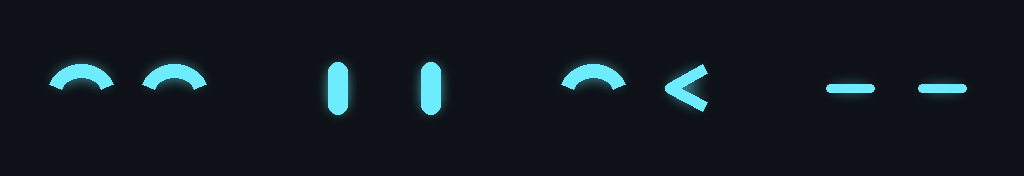
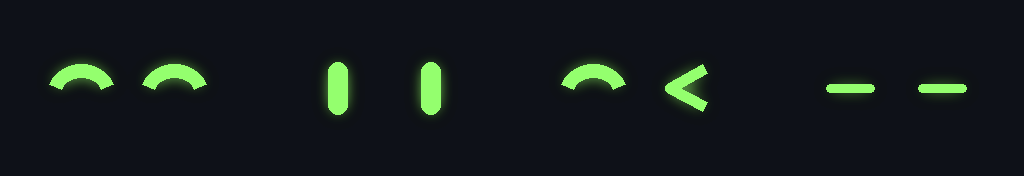
E24 #631: Bloombot's blue becomes green, the pulse included
Bloombot's own colour is now a light, warm leaf green that glows (PALETTE.botGlow, botPulse):
- its visor eyes (the face sheet regenerated from assets/tools/bloombot_faces.py) and its trim glow (the model's
  bloombot_glow material, recoloured when the rig loads)
- the pulse: the waves from its palms, the rings where it lands, the motes, and the reveal ripple
- the build hologram it projects, and its eyes and ear lights on the loading screen

The pulse green is lighter than any restored grass, so its rings still read on the lawn. Machines and drones
keep their cyan: it's Bloombot's colour, not every robot's. The HUD's charge card and load wheel were already
gold and leaf green.

Tests: tests/bot-green.test.ts. Shots, before and after: docs/review/bot-green.

diff --git a/tests/bot-green.test.ts b/tests/bot-green.test.ts
@@ -1,0 +1,48 @@
+import { readFileSync } from 'node:fs';
+import { describe, expect, it } from 'vitest';
+import { PALETTE } from '../src/rendering/Palette';
+
+/**
+ * #631: Bloombot's colour is a light, warm leaf green (it was cyan): its eyes and trim glow, the pulse's waves and
+ * rings, the reveal ripple and the build hologram. Light enough that the pulse still reads on restored grass.
+ */
+
+const rgb = (hex: string) => [1, 3, 5].map((i) => parseInt(hex.slice(i, i + 2), 16));
+const luma = (hex: string) => {
+  const [r, g, b] = rgb(hex);
+  return 0.2126 * r + 0.7152 * g + 0.0722 * b;
+};
+const read = (path: string) => readFileSync(new URL(path, import.meta.url), 'utf8');
+
+describe("#631: Bloombot's own colour is green", () => {
+  it('its glow, its pulse, the ripple and the hologram are greens, not cyans (green leads, blue trails red)', () => {
+    for (const [name, hex] of Object.entries({ botGlow: PALETTE.botGlow, botPulse: PALETTE.botPulse, ripple: PALETTE.ripple, holo: PALETTE.signal.holo })) {
+      const [r, g, b] = rgb(hex);
+      expect(g, name).toBeGreaterThan(r);
+      expect(g, name).toBeGreaterThan(b);
+      expect(b, `${name}: no blue lean`).toBeLessThanOrEqual(r);
+    }
+  });
+
+  it('the pulse is lighter than any restored grass, so its rings show on the lawn', () => {
+    const grass = (PALETTE.grass as readonly string[]).map(luma);
+    expect(luma(PALETTE.botPulse)).toBeGreaterThan(Math.max(...grass) + 40);
+  });
+
+  it('the visor sheet, the loading screen and the palette agree on the one green', () => {
+    const [r, g, b] = rgb(PALETTE.botGlow);
+    expect(read('../assets/tools/bloombot_faces.py')).toContain(`EYE = (${r}, ${g}, ${b}, 255)`);
+    expect(read('../src/ui/styles.css')).toContain(`--bot-glow: ${PALETTE.botGlow};`);
+    expect(read('../src/ui/title.css')).toMatch(/\.lb-eye \{[^}]*var\(--bot-glow\)/);
+    expect(read('../src/ui/title.css')).toMatch(/\.lb-ear \{[^}]*var\(--bot-glow\)/);
+  });
+
+  it("the pulse code draws in Bloombot's green, and its trim glow is recoloured when the model loads", () => {
+    const game = read('../src/app/Game.ts');
+    expect(game).toContain('this.vfx.ring(p, PALETTE.botPulse, 1.1, 0.55)');
+    expect(read('../src/rendering/Vfx.ts')).toContain('palmWave(from: pc.Vec3, to: pc.Vec3, hex: string = PALETTE.botPulse)');
+    const bot = read('../src/rendering/BloombotVisuals.ts');
+    expect(bot).toContain("old?.name !== 'bloombot_glow'");
+    expect(bot).toContain('color(PALETTE.botGlow)');
+  });
+});

diff --git a/src/app/Game.ts b/src/app/Game.ts
@@ -2039,7 +2039,7 @@ export class Game {
     if (r === 'pulse') {
       v.play('pulse');
       this.drones.companionReact('pulse');
-      // The echo pulse: cyan rings leave the palms and travel to the tile in front (as in the reference image).
+      // The echo pulse: green rings (#631) leave the palms and travel to the tile in front (as in the reference image).
       const f = this.frontPick();
       if (f?.tile) {
         const to = this.tileVec(f.tile, SLAB_TOP + 0.25);
@@ -4056,13 +4056,13 @@ export class Game {
       this.grid.refresh(tile, true);
       const p = this.tileVec(tile);
       if (source === 'pulse') {
-        this.vfx.ring(p, PALETTE.eyeCyan, 1.1, 0.55);
+        this.vfx.ring(p, PALETTE.botPulse, 1.1, 0.55);
         this.vfx.burst(p, 6, { up: 1.5, speed: 1.4, size: 0.05 });
         // Look 6.4: the slab fractures under your tap: a short, punchy shake and a burst of grit.
         this.vfx.burst(p, 8, { up: 1.1, speed: 1.6, size: 0.045, life: 0.6, hex: PALETTE.debris });
         if (!this.settings.reducedMotion) this.camera.shake(0.035);
         this.sfx.at(p, (q) => q.pulse());
-      } else if (source === 'broad') this.vfx.ring(p, PALETTE.eyeCyan, 0.8, 0.45);
+      } else if (source === 'broad') this.vfx.ring(p, PALETTE.botPulse, 0.8, 0.45);
       else if (source === 'condenser') this.vfx.ring(p, PALETTE.water, 0.8, 0.5);
       else if (source === 'overflow') this.vfx.ring(p, '#a8ecff', 0.9, 0.5);
       else if (source === 'drone') this.vfx.ring(p, PALETTE.leafFin, 0.8, 0.5);

diff --git a/src/rendering/Palette.ts b/src/rendering/Palette.ts
@@ -459,7 +459,7 @@ const signal = {
   /** by day: a warmer gold, so it reads on pale ground */
   trailDay: '#ffc24a',
   /** E19: the build hologram bloombot projects */
-  holo: '#5fe8ff',
+  holo: '#a6ff86',
   /** E23.3.4: the Power overlay. Each network gets one of `nets` (warm, bright, readable at night). */
   power: {
     // the biggest network is pure yellow (the owner's call: 100% yellow, like the machines' outline)
@@ -599,6 +599,13 @@ export const PALETTE = {
   water: aqua.water,
   darkFace: plastic.face,
   eyeCyan: glow.eye,
+  /**
+   * #631: Bloombot's own colour: a light, warm leaf green that glows. Its eyes and trim glow, the pulse's waves and
+   * rings, the reveal ripple and the build hologram it projects. Lighter than any grass, so the pulse still reads
+   * on restored ground. (Machines and drones keep their cyan: it's Bloombot's colour, not every robot's.)
+   */
+  botGlow: '#94ff6e',
+  botPulse: '#e2ffb4',
   leafFin: '#a5d94d',
   leafVein: '#589d32',
   facadeGrey: building.facade,
@@ -690,7 +697,7 @@ export const PALETTE = {
   mothBody: '#9a6a3e',
   mothWing: '#e0a24a',
   /** E23.2.2.3: the reveal ripple's ring, and the warmer ring on a journal page it found */
-  ripple: '#bff3ff',
+  ripple: '#dcffc2',
   ripplePage: '#fff3c4',
   /** E23.2.2.3: a revealed buried find: freshly turned earth */
   turnedEarth: '#7b5134',

diff --git a/src/rendering/BloombotVisuals.ts b/src/rendering/BloombotVisuals.ts
@@ -169,6 +169,7 @@ export class BloombotVisuals {
     holder.addChild(e);
     this.root.addChild(holder);
     this.addFace(holder, e);
+    this.greenGlow(e);
     e.addComponent('anim', { activate: true });
     const anim = e.anim!;
     for (const a of res.animations) {
@@ -183,6 +184,27 @@ export class BloombotVisuals {
     this.standIn = undefined;
     this.loaded = true;
     anim.baseLayer?.transition('idle', 0);
+  }
+
+  /**
+   * #631: Bloombot's glowing trim (material `bloombot_glow`, the chest light, the ear lights, the seams) in its own
+   * green rather than the model's cyan. One shared material for every part that glows.
+   */
+  private greenGlow(rig: pc.Entity) {
+    let green: pc.StandardMaterial | undefined;
+    for (const r of rig.findComponents('render') as pc.RenderComponent[])
+      for (const mi of r.meshInstances) {
+        const old = mi.material as pc.StandardMaterial;
+        if (old?.name !== 'bloombot_glow') continue;
+        if (!green) {
+          green = old.clone();
+          green.name = 'bloombot_glow_green';
+          green.diffuse = color(PALETTE.botGlow);
+          green.emissive = color(PALETTE.botGlow);
+          green.update();
+        }
+        mi.material = green;
+      }
   }
 
   /**

diff --git a/src/rendering/Vfx.ts b/src/rendering/Vfx.ts
@@ -151,7 +151,7 @@ export class Vfx {
     const palmMesh = pc.Mesh.fromGeometry(device, new pc.TorusGeometry({ tubeRadius: 0.04, ringRadius: 1, segments: 48, sides: 8 }));
     palmMesh.incRefCount();
     for (let i = 0; i < 15; i++) {
-      const m = uniqueMat(PALETTE.eyeCyan, { opacity: 0.9, emissive: PALETTE.eyeCyan, emissiveIntensity: 2.6 });
+      const m = uniqueMat(PALETTE.botPulse, { opacity: 0.9, emissive: PALETTE.botPulse, emissiveIntensity: 2.6 });
       const e = new pc.Entity('palmRing');
       e.addComponent('render', { meshInstances: [new pc.MeshInstance(palmMesh, m)], castShadows: false });
       this.root.addChild(e);
@@ -246,7 +246,7 @@ export class Vfx {
    * target tile (`to`), with sparkles along the way, then a cyan ring on the ground where they land. Reduced
    * motion: one ring that fades in place at the tile.
    */
-  palmWave(from: pc.Vec3, to: pc.Vec3, hex: string = PALETTE.eyeCyan) {
+  palmWave(from: pc.Vec3, to: pc.Vec3, hex: string = PALETTE.botPulse) {
     if (this.reducedMotion) return this.ring(to, hex, 0.7, 0.4);
     const n = this.density < 0.6 ? 2 : 4;
     for (let i = 0; i < n; i++) {

diff --git a/src/ui/title.css b/src/ui/title.css
@@ -162,8 +162,8 @@ body.reduced #loading .ld-bar i, #loading.still .ld-bar i { transition: none; }
 .ld-bot .lb-gold-line { fill: none; stroke: var(--sun); stroke-width: 3; }
 .ld-bot .lb-dark { fill: var(--bot-joint); }
 .ld-bot .lb-visor { fill: var(--glyph-ink-dark); }
-.ld-bot .lb-eye { fill: none; stroke: var(--mm-water-hi); stroke-width: 3.2; stroke-linecap: round; }
-.ld-bot .lb-ear { fill: var(--mm-water-hi); }
+.ld-bot .lb-eye { fill: none; stroke: var(--bot-glow); stroke-width: 3.2; stroke-linecap: round; }
+.ld-bot .lb-ear { fill: var(--bot-glow); }
 .ld-bot .lb-leaf { fill: var(--leaf); stroke: var(--leaf-ink); stroke-width: 1; }
 .ld-bot .lb-vein { fill: none; stroke: var(--leaf-hi); stroke-width: 1.4; }
 .ld-bot .lb-antenna { stroke: var(--bot-joint); stroke-width: 3; stroke-linecap: round; }

diff --git a/src/ui/styles.css b/src/ui/styles.css
@@ -79,6 +79,8 @@
   --mm-path-edge: #e3c896;
   --mm-water: #5ab9b8;
   --mm-water-hi: #8fdcd2;
+  /* #631: Bloombot's own glow (PALETTE.botGlow): its eyes and ear lights on the loading screen */
+  --bot-glow: #94ff6e;
   --mm-bush: #5d9d42;
   --mm-bush-hi: #7cc25a;
   --mm-roof: #f28cb8;

diff --git a/vite.config.ts b/vite.config.ts
@@ -45,6 +45,8 @@ const QUICK = [
   'waymark',
   // #632: Show me where's trail along a walkable way
   'trail',
+  // #631: Bloombot's colour is green
+  'bot-green',
 ].map((name) => `tests/${name}.test.ts`);
 
 export default defineConfig(({ mode }) => ({

diff --git a/assets/tools/bloombot_faces.py b/assets/tools/bloombot_faces.py
@@ -1,6 +1,7 @@
 """Bloombot's visor faces (G.1): happy, surprised, wink and blink, as one sprite sheet in a row.
 
-The owner's character sheet: a glossy black visor with soft cyan glowing eyes. The game lays this over the visor
+The owner's character sheet: a glossy black visor with soft glowing eyes, in Bloombot's leaf green (#631; they
+were cyan, PALETTE.botGlow in src/rendering/Palette.ts). The game lays this over the visor
 on a thin panel tied to the head bone and swaps frames (src/rendering/BloombotVisuals.ts, FACES).
 
     python assets/tools/bloombot_faces.py   ->   assets/raw/bloombot/bloombot-faces.png
@@ -12,26 +13,26 @@ from PIL import Image, ImageDraw, ImageFilter
 W, H = 256, 176  # one frame: the visor's proportions (about 0.27 x 0.19 m)
 FRAMES = ['happy', 'surprised', 'wink', 'blink']
 VISOR = (14, 17, 24, 255)
-CYAN = (110, 236, 255, 255)
+EYE = (148, 255, 110, 255)  # PALETTE.botGlow, #94ff6e
 OUT = Path(__file__).resolve().parents[1] / 'raw' / 'bloombot' / 'bloombot-faces.png'
 
 
 def eye_happy(d, cx, cy, s):
-    d.arc([cx - s, cy - s * 0.7, cx + s, cy + s * 1.1], start=200, end=340, fill=CYAN, width=int(s * 0.42))
+    d.arc([cx - s, cy - s * 0.7, cx + s, cy + s * 1.1], start=200, end=340, fill=EYE, width=int(s * 0.42))
 
 
 def eye_open(d, cx, cy, s):
-    d.rounded_rectangle([cx - s * 0.28, cy - s * 0.75, cx + s * 0.28, cy + s * 0.75], radius=int(s * 0.28), fill=CYAN)
+    d.rounded_rectangle([cx - s * 0.28, cy - s * 0.75, cx + s * 0.28, cy + s * 0.75], radius=int(s * 0.28), fill=EYE)
 
 
 def eye_wink(d, cx, cy, s):
     # "<" for the winking eye, as on the sheet
     w = int(s * 0.38)
-    d.line([(cx + s * 0.55, cy - s * 0.55), (cx - s * 0.45, cy), (cx + s * 0.55, cy + s * 0.55)], fill=CYAN, width=w, joint='curve')
+    d.line([(cx + s * 0.55, cy - s * 0.55), (cx - s * 0.45, cy), (cx + s * 0.55, cy + s * 0.55)], fill=EYE, width=w, joint='curve')
 
 
 def eye_closed(d, cx, cy, s):
-    d.rounded_rectangle([cx - s * 0.7, cy - s * 0.12, cx + s * 0.7, cy + s * 0.12], radius=int(s * 0.12), fill=CYAN)
+    d.rounded_rectangle([cx - s * 0.7, cy - s * 0.12, cx + s * 0.7, cy + s * 0.12], radius=int(s * 0.12), fill=EYE)
 
 
 def frame(kind):
